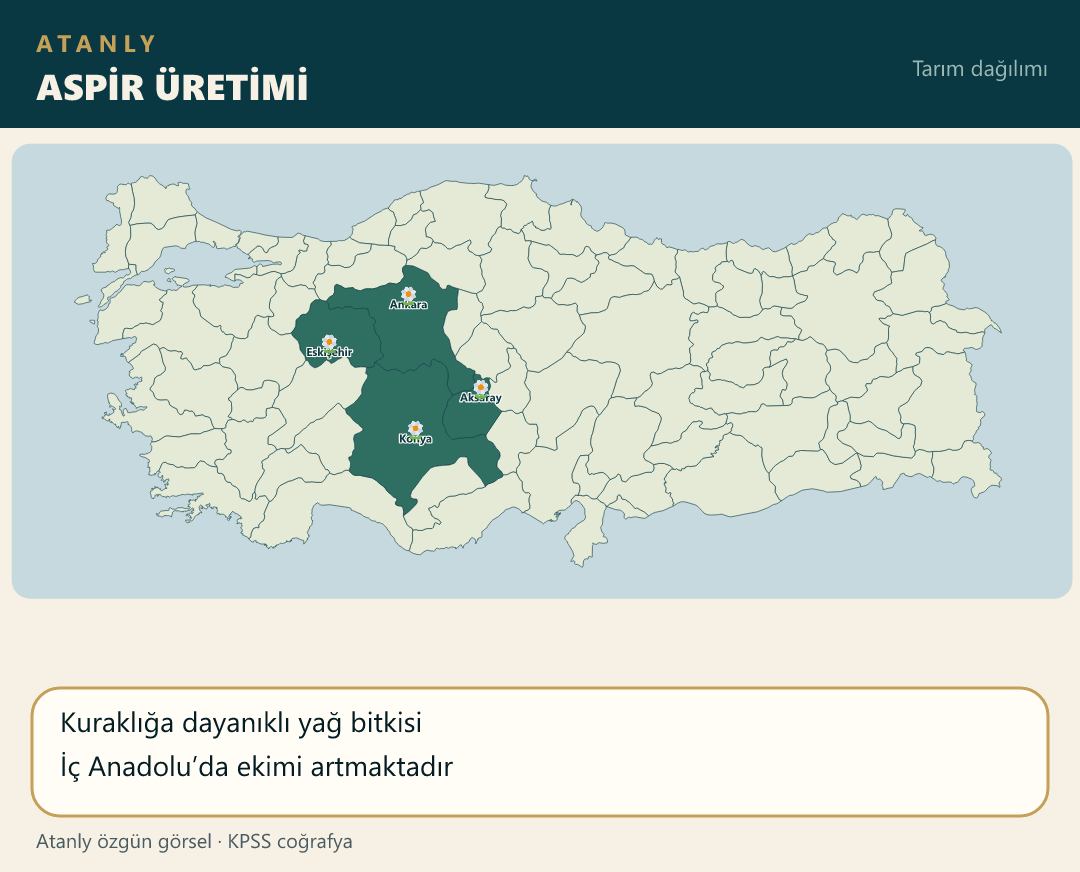
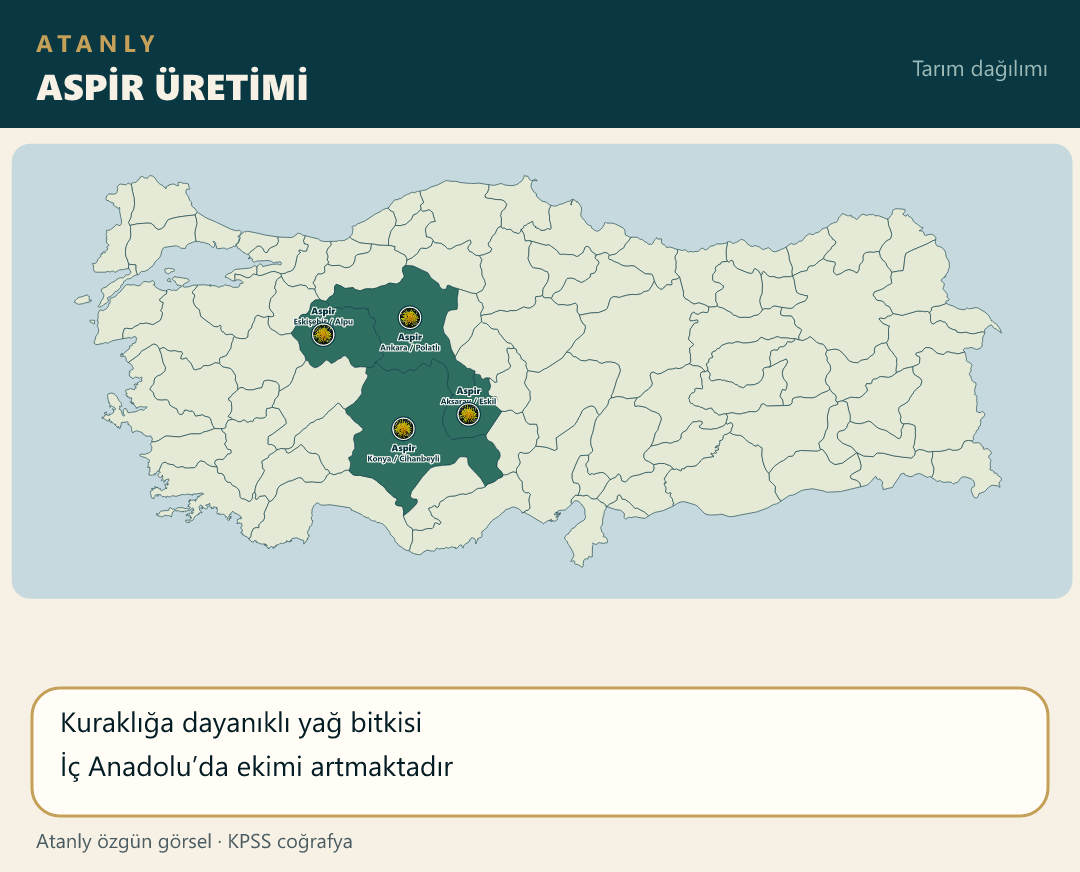
Place the safflower photo and keep district names on crop pins.

Changed region(s): [[0.275, 0.3096, 0.3972, 0.4335], [0.3361, 0.4335, 0.4583, 0.5573]]

diff --git a/scripts/build-atanly-maps.js b/scripts/build-atanly-maps.js
@@ -413,7 +413,7 @@ function topicIcon(file) {
         gul: "rose", elma: "apple", bugday: "wheat", pamuk: "cotton", zeytin: "olive",
         uzum: "grapes", misir: "corn", patates: "potato", arpa: "arpa", sekerpancar: "beet",
         hashas: "poppy", incir: "fig", kayisi: "apricot", muz: "banana", anason: "anason",
-        aspir: "flower", susam: "seed", tutun: "leaf", yerfistik: "peanut", antepfistik: "antepfistik",
+        aspir: "aspir", susam: "seed", tutun: "leaf", yerfistik: "peanut", antepfistik: "antepfistik",
         kirmizimercimek: "lentil", turunc: "citrus", kanola: "canola", pirinc: "rice",
         aycicek: "sunflower", findik: "hazelnut", cay: "tea", kenevir: "hemp",
         kivrimdaglar: "fold-mtn", kirikdaglar: "fault-mtn", volkanikdaglar: "volcano",
@@ -523,12 +523,33 @@ function main() {
         { file: "incir.png", title: "İNCİR ÜRETİMİ", iller: ["Aydın", "İzmir", "Muğla", "Bursa", "Gaziantep"], facts: ["Aydın birinci sıradadır", "Ege’nin kurutmalık inciri meşhurdur"] },
         { file: "kayısı.png", title: "KAYISI ÜRETİMİ", iller: ["Malatya", "Elazığ", "Kahramanmaraş", "Iğdır"], facts: ["Malatya dünya ölçeğinde öne çıkar", "Kurutmalık kayısı ihracatı önemlidir"] },
         { file: "muz.png", title: "MUZ ÜRETİMİ", iller: ["Mersin", "Antalya", "Hatay"], facts: ["Don olayının az olduğu kıyı kuşağı", "Anamur–Alanya çevresi yoğundur"] },
-        { file: "anason.png", title: "ANASON ÜRETİMİ", urun: "Anason", iller: ["Burdur", "Denizli", "Antalya", "Muğla"], facts: ["Göller Yöresi ve Teke çevresi", "Burdur–Tefenni öne çıkar", "Uçucu yağ bitkisidir"] },
-        { file: "aspir.png", title: "ASPİR ÜRETİMİ", iller: ["Eskişehir", "Konya", "Ankara", "Aksaray"], facts: ["Kuraklığa dayanıklı yağ bitkisi", "İç Anadolu’da ekimi artmaktadır"] },
+        { file: "anason.png", title: "ANASON ÜRETİMİ", urun: "Anason",
+            noktalar: [
+                { il: "Burdur", ilce: "Tefenni" },
+                { il: "Denizli", ilce: "Acıpayam" },
+                { il: "Antalya", ilce: "Elmalı" },
+                { il: "Muğla", ilce: "Fethiye" }
+            ],
+            facts: ["Göller Yöresi ve Teke çevresi", "Burdur–Tefenni öne çıkar", "Uçucu yağ bitkisidir"] },
+        { file: "aspir.png", title: "ASPİR ÜRETİMİ", urun: "Aspir",
+            noktalar: [
+                { il: "Eskişehir", ilce: "Alpu" },
+                { il: "Konya", ilce: "Cihanbeyli" },
+                { il: "Ankara", ilce: "Polatlı" },
+                { il: "Aksaray", ilce: "Eskil" }
+            ],
+            facts: ["Kuraklığa dayanıklı yağ bitkisi", "İç Anadolu’da ekimi artmaktadır"] },
         { file: "susam.png", title: "SUSAM ÜRETİMİ", iller: ["Antalya", "Muğla", "Manisa", "Adana"], facts: ["Sıcak iklim ister", "Akdeniz ve Ege kıyılarında yetişir"] },
         { file: "tütün.png", title: "TÜTÜN ÜRETİMİ", iller: ["Manisa", "Denizli", "Samsun", "Adıyaman", "Bitlis", "Muş"], facts: ["Ege ve Karadeniz’de klasik üretim alanları", "Doğu Anadolu’da da ekilir"] },
         { file: "yer_fıstık.png", title: "YER FISTIĞI", iller: ["Osmaniye", "Adana", "Aydın", "Kahramanmaraş"], facts: ["Çukurova ve Osmaniye öne çıkar", "Sıcaklık ve kumlu-tınlı toprak ister"] },
-        { file: "antep_fıstık.png", title: "ANTEP FISTIĞI", urun: "Antep fıstığı", iller: ["Gaziantep", "Şanlıurfa", "Siirt", "Adıyaman"], facts: ["Güneydoğu Anadolu’nun karakteristik ürünü", "En çok Şanlıurfa–Birecik çevresi", "Gaziantep–Nizip adıyla anılır"] },
+        { file: "antep_fıstık.png", title: "ANTEP FISTIĞI", urun: "Antep fıstığı",
+            noktalar: [
+                { il: "Gaziantep", ilce: "Nizip" },
+                { il: "Şanlıurfa", ilce: "Birecik" },
+                { il: "Siirt", ilce: "Pervari" },
+                { il: "Adıyaman", ilce: "Kâhta" }
+            ],
+            facts: ["Güneydoğu Anadolu’nun karakteristik ürünü", "En çok Şanlıurfa–Birecik çevresi", "Gaziantep–Nizip adıyla anılır"] },
         { file: "kırmızı_mercimek.png", title: "KIRMIZI MERCİMEK", iller: ["Şanlıurfa", "Diyarbakır", "Mardin", "Batman"], facts: ["Güneydoğu Anadolu birinci sıradadır", "Kuraklığa dayanıklı baklagildir"] },
         { file: "gül.png", title: "GÜL ÜRETİMİ", iller: ["Isparta", "Burdur", "Afyon", "Denizli"], facts: ["Isparta ‘gül bahçesi’ olarak anılır", "Yağ gülü üretimi yoğundur"] },
         { file: "turunc.png", title: "TURUNÇGİL ÜRETİMİ", iller: ["Antalya", "Mersin", "Adana", "Hatay", "Muğla"], facts: ["Akdeniz kıyı kuşağı", "Don riski düşük yerlerde yetişir"] },

diff --git a/notlar/cografya-19-not.js b/notlar/cografya-19-not.js
@@ -2,7 +2,7 @@
 (function () {
     function harita(src, alt) {
         return '<div class="mt-4 overflow-hidden rounded-xl border border-blue-200 dark:border-blue-700/50 bg-white dark:bg-slate-800 p-2">' +
-            '<img src="./src/img/' + src + '?v=17" alt="' + alt + ' Haritası" class="w-full h-auto rounded-lg object-contain" loading="lazy">' +
+            '<img src="./src/img/' + src + '?v=18" alt="' + alt + ' Haritası" class="w-full h-auto rounded-lg object-contain" loading="lazy">' +
             "</div>";
     }
 

diff --git a/index.html b/index.html
@@ -117,7 +117,7 @@
     <script src="notlar/cografya-16-not.js?v=3"></script>
     <script src="notlar/cografya-17-not.js?v=3"></script>
     <script src="notlar/cografya-18-not.js?v=9"></script>
-    <script src="notlar/cografya-19-not.js?v=13"></script>
+    <script src="notlar/cografya-19-not.js?v=14"></script>
     <script src="notlar/cografya-20-not.js?v=1"></script>
     <script src="notlar/cografya-21-not.js?v=4"></script>
     <script src="notlar/vatandas-1-not.js?v=3"></script>
